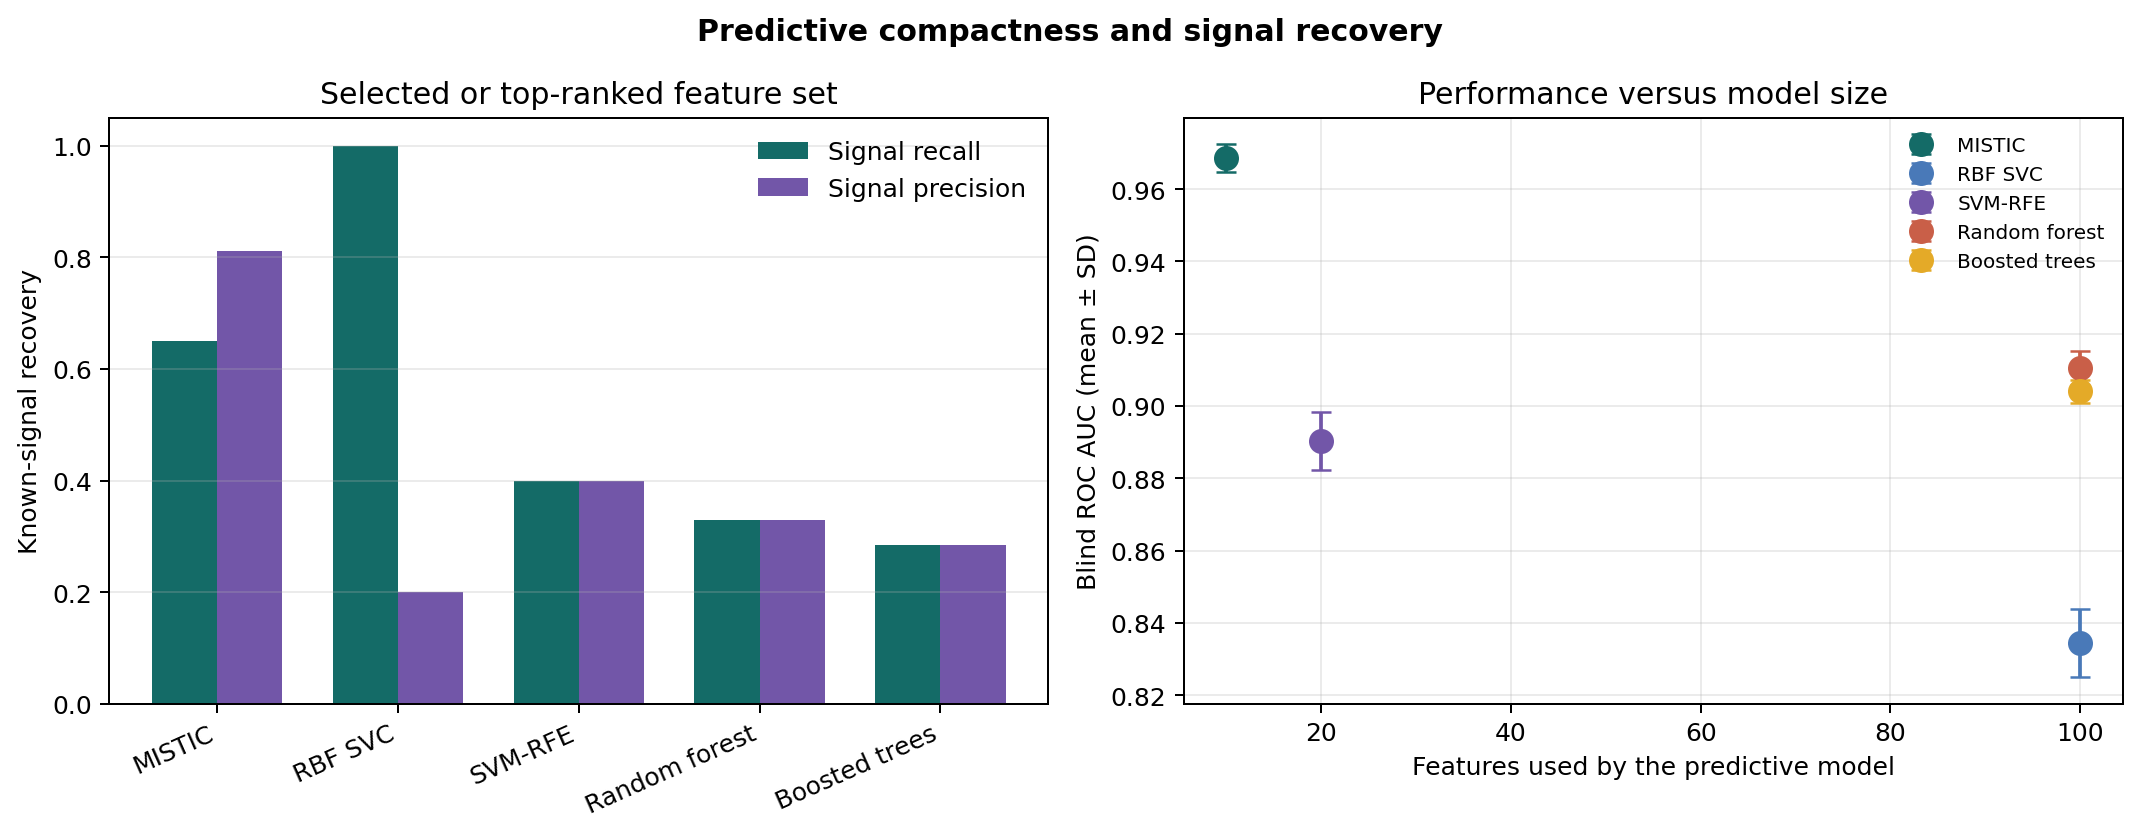
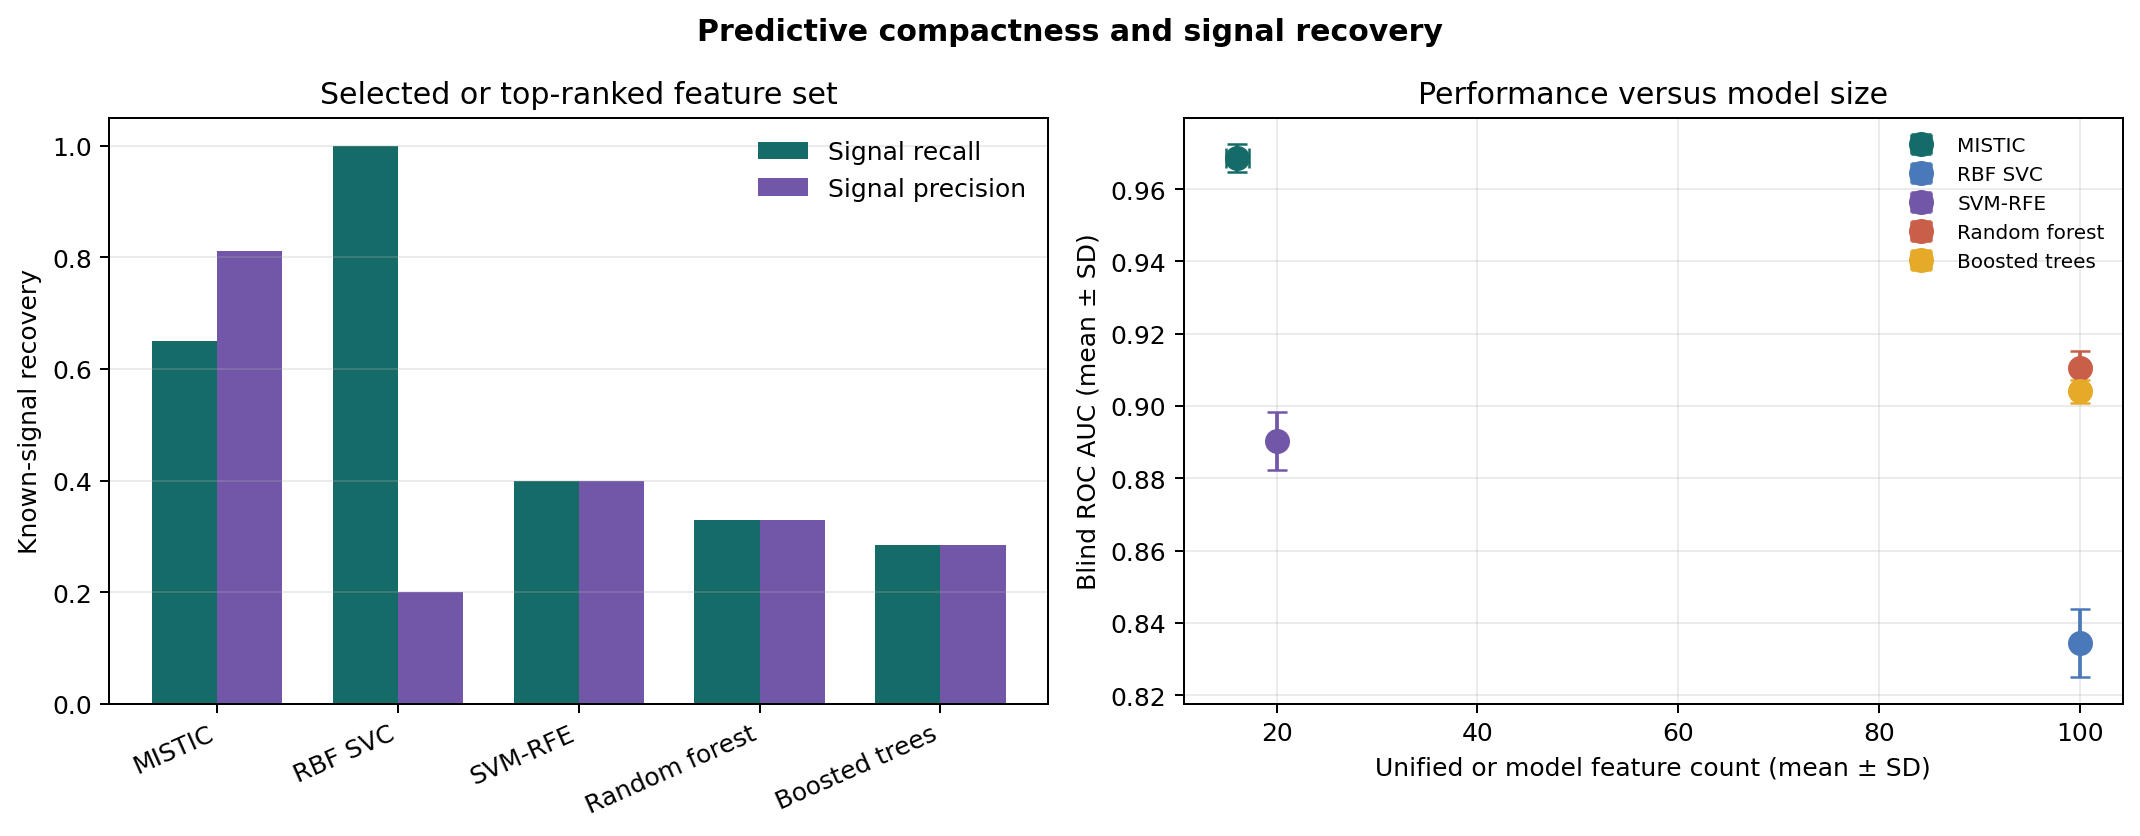
Use unified MISTIC feature count in benchmark

diff --git a/docs/generate_tutorial_figures.py b/docs/generate_tutorial_figures.py
@@ -158,6 +158,17 @@ def benchmark_results():
     combined = pd.concat((svm_results, tree_results), ignore_index=True)
     combined = combined[combined["method"].isin(labels)].copy()
     combined["display_method"] = combined["method"].map(labels)
+    combined["comparison_feature_count"] = combined["num_features"]
+
+    # The original validation table stored MISTIC's mean per-member count in
+    # ``num_features``. Its recovery statistics were calculated from the full
+    # unified set (all sets contained fewer than the top-20 reporting cap), so
+    # recovered-signal count divided by precision gives its true cardinality.
+    mistic_rows = combined["display_method"].eq("MISTIC")
+    recovered_signal_count = combined.loc[mistic_rows, "signal_recall"] * 20
+    combined.loc[mistic_rows, "comparison_feature_count"] = np.rint(
+        recovered_signal_count / combined.loc[mistic_rows, "signal_precision"]
+    )
     return combined, list(labels.values())
 
 
@@ -208,7 +219,8 @@ def save_benchmark_figures():
             signal_precision=("signal_precision", "mean"),
             roc_auc=("roc_auc", "mean"),
             roc_auc_sd=("roc_auc", "std"),
-            num_features=("num_features", "mean"),
+            feature_count=("comparison_feature_count", "mean"),
+            feature_count_sd=("comparison_feature_count", "std"),
         )
         .reindex(order)
     )
@@ -237,8 +249,9 @@ def save_benchmark_figures():
 
     for method in order:
         axes[1].errorbar(
-            summary.loc[method, "num_features"],
+            summary.loc[method, "feature_count"],
             summary.loc[method, "roc_auc"],
+            xerr=summary.loc[method, "feature_count_sd"],
             yerr=summary.loc[method, "roc_auc_sd"],
             color=colors[method],
             marker="o",
@@ -247,7 +260,7 @@ def save_benchmark_figures():
             linestyle="none",
             label=method,
         )
-    axes[1].set_xlabel("Features used by the predictive model")
+    axes[1].set_xlabel("Unified or model feature count (mean ± SD)")
     axes[1].set_ylabel("Blind ROC AUC (mean ± SD)")
     axes[1].set_title("Performance versus model size")
     axes[1].grid(alpha=0.25)

diff --git a/docs/tutorials/synthetic_benchmark.rst b/docs/tutorials/synthetic_benchmark.rst
@@ -338,8 +338,10 @@ populations.
    top 20 development-set permutation ranks, SVM-RFE uses its 20 selected
    variables, and MISTIC uses the unified ranking recorded by the validation
    study. Right: blind ROC AUC versus the number of features used by each
-   predictive model; the MISTIC point uses the mean number of features in its
-   member models.
+   predictive model. The MISTIC point uses the complete unified feature-list
+   count for each seed (mean 16.1), not the smaller per-member or per-fold
+   feature count. Horizontal error bars show feature-count variation across
+   seeds where applicable.
 
 Do not collapse the comparison to one number. Read the columns together:
 
